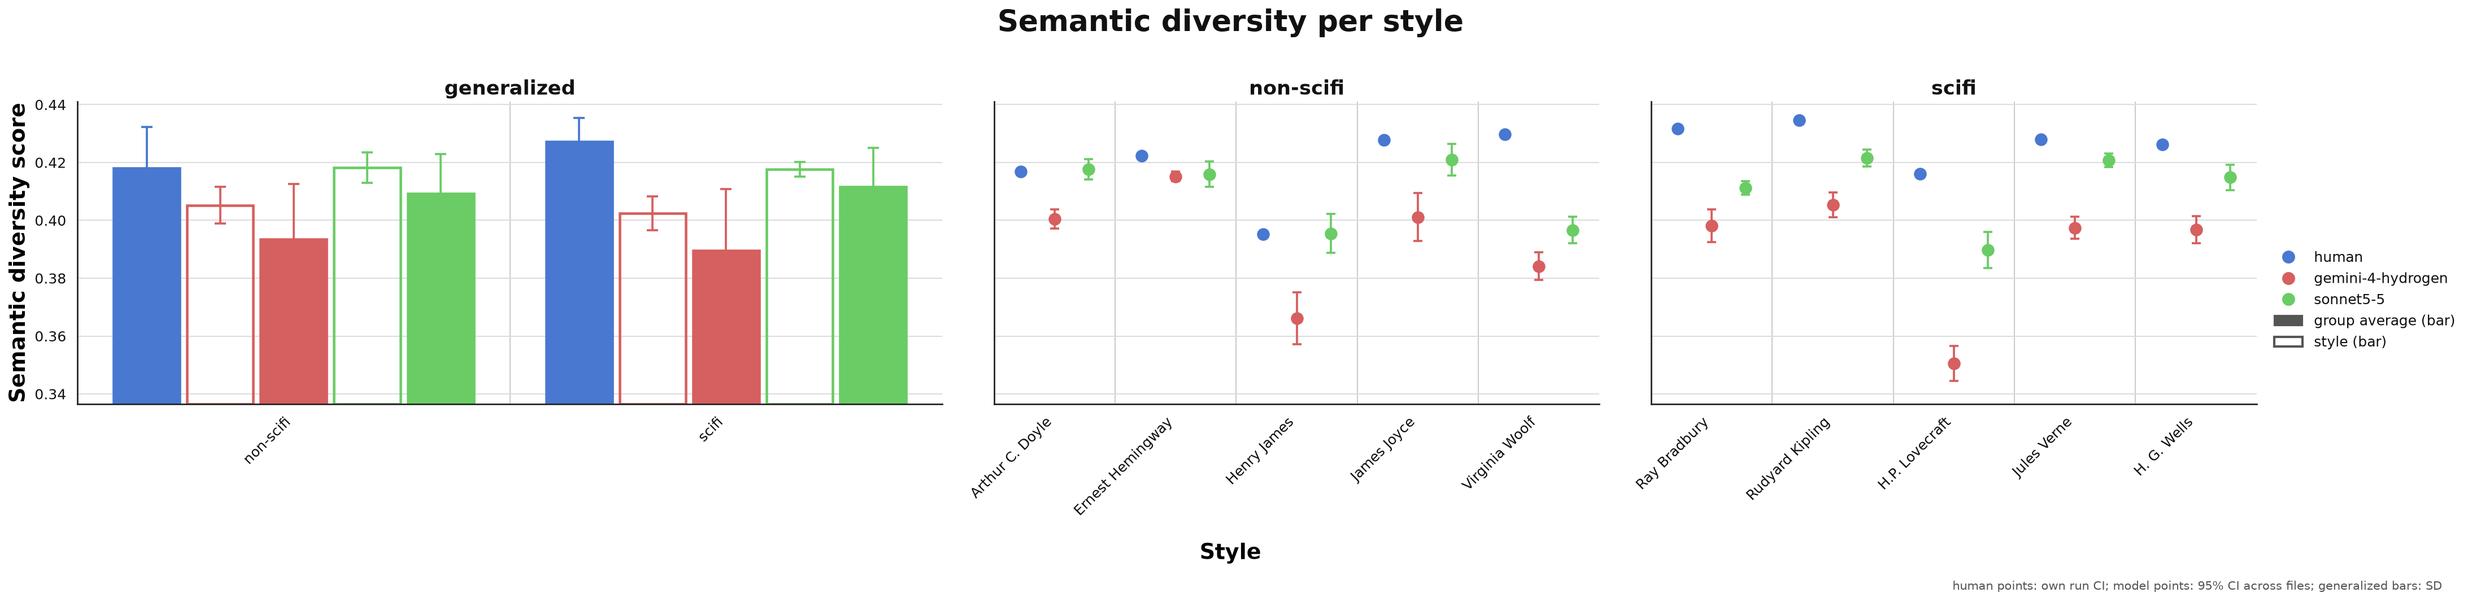
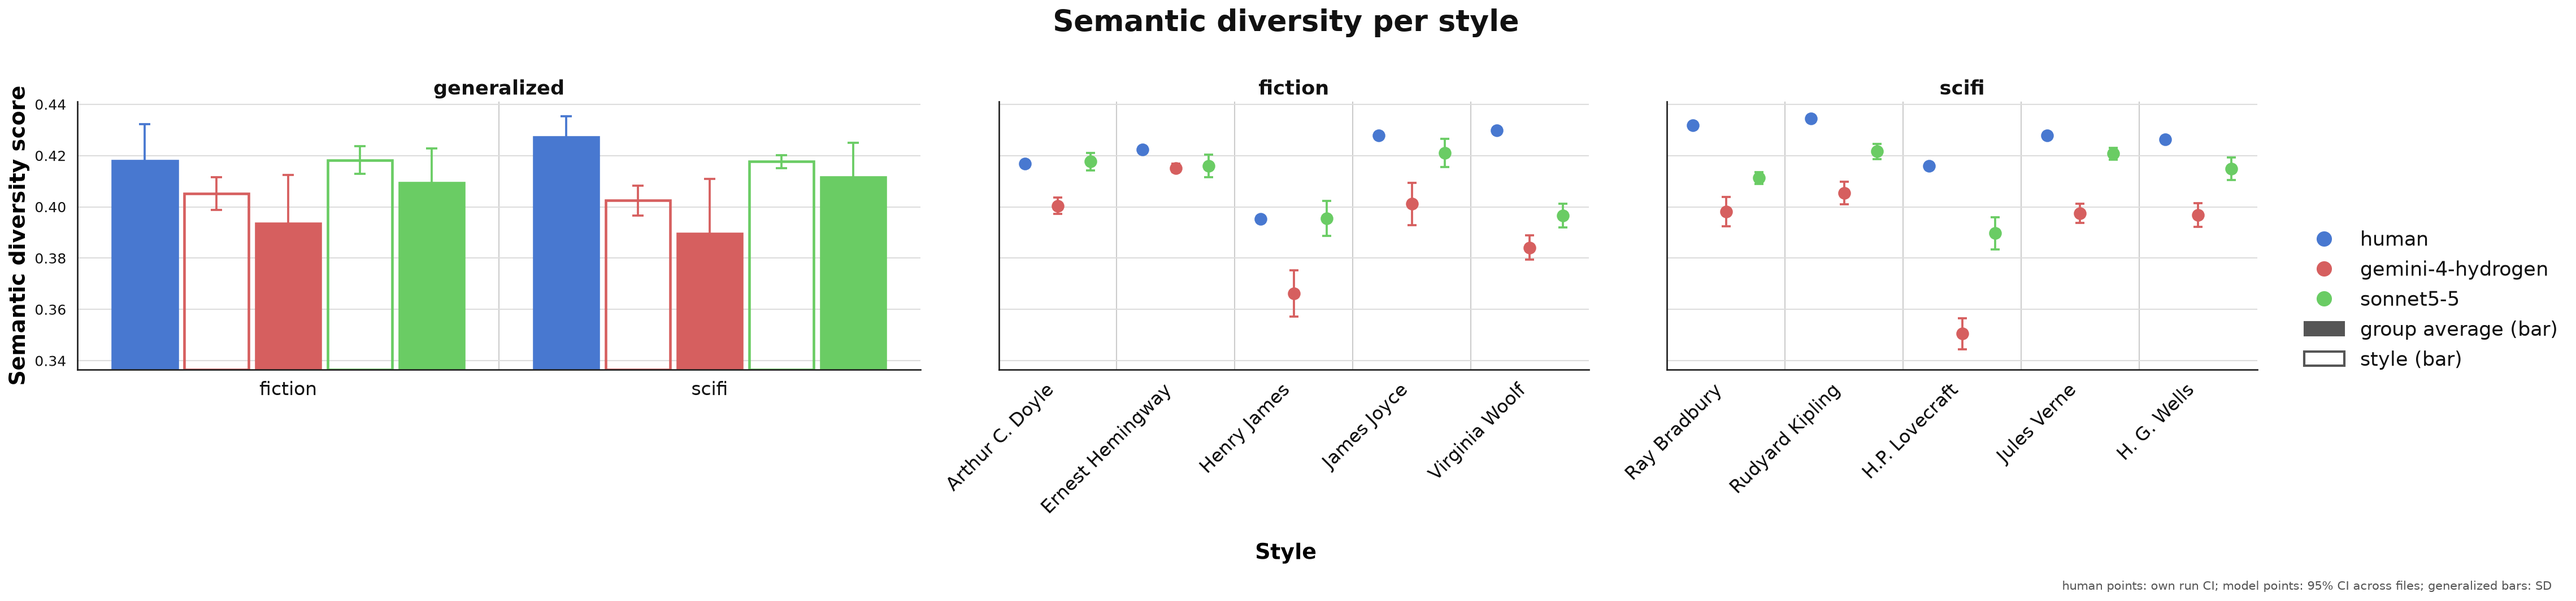
prettified plots

diff --git a/metrics/plot.py b/metrics/plot.py
@@ -79,7 +79,7 @@ def set_theme():
             "axes.labelsize":     18,
             "axes.labelweight":   "bold",
             "axes.labelcolor":    "#000000",
-            "xtick.labelsize":    12,
+            "xtick.labelsize":    16,
             "ytick.labelsize":    12,
             "xtick.color":        "#111111",
             "ytick.color":        "#111111",
@@ -87,7 +87,7 @@ def set_theme():
             "ytick.major.size":   6,
             "xtick.major.width":  1.3,
             "ytick.major.width":  1.3,
-            "legend.fontsize":    12,
+            "legend.fontsize":    17,
             "text.color":         "#111111",
             "figure.titlesize":   25,
             "figure.titleweight": "bold",
@@ -418,8 +418,7 @@ SERIES_COLORS = {
 GENRE_GROUPS = {"scifi": "scifi", "non-scifi": "fiction"}
 
 # Panel display names (data keys are untouched) and left-to-right panel order.
-PANEL_TITLES = {"fiction": "non-scifi"}
-PANEL_ORDER  = ["generalized", "non-scifi", "scifi"]
+PANEL_ORDER  = ["generalized", "fiction", "scifi"]
 
 # NOTE quick and dirty approach, STYLES is copied from ../preprocess/openrouter.py
 # Full names for the author clusters in the "scifi" / "non-scifi" panels (keys are the lower-case
@@ -488,7 +487,7 @@ def summarise_group_averages(df: pd.DataFrame, genre_groups: dict = None,
         if hum.empty:
             print(f"NOTE: no human '{genre}' directory, so no group average beside '{ai_key}'")
             continue
-        label    = f"avg {PANEL_TITLES.get(genre, genre)}"
+        label    = f"avg {genre}"
         hum_keys = set(hum["_file"])
         for g, raw in hum.groupby("_g", dropna=False):                       # human average
             rows.append(dict(group=None if pd.isna(g) else g, style=genre, label=label,
@@ -864,7 +863,6 @@ def plot_by_section(
         if panels[:-1]:
             print("NOTE: no human file for AI style(s): " + ", ".join(sorted(first["label"])))
 
-    panels = [(PANEL_TITLES.get(t, t), c, h) for t, c, h in panels]
     panels.sort(key=lambda p: PANEL_ORDER.index(p[0]) if p[0] in PANEL_ORDER else len(PANEL_ORDER))   # stable
 
     grp = pts[pts["kind"] == "group"]                          # group averages (from summarise_group_averages)
@@ -881,7 +879,7 @@ def plot_by_section(
     colour_of  = {s: fixed[s] if s in fixed else free.pop(0) for s in all_series}
 
     max_slots = max(1 + len(ai_series), len(extra_h) + 2 * len(ai_series))
-    leg_w     = 2.3
+    leg_w     = 3.6
     width     = sum(max(len(p[1]), 1) * (0.42 * max_slots + 0.5) for p in panels) + 0.8 * len(panels) + leg_w
     # panel widths follow cluster counts, except "generalized" gets double its share (others shrink to fit)
     ratios = [float(max(len(p[1]), 1)) for p in panels]
@@ -909,6 +907,9 @@ def plot_by_section(
         bar_bottom = ylo if bar_baseline is None else bar_baseline
         axes[0].set_ylim(ylo, hi + pad)
     kind_order = {"file": 0, "section": 1, "group": 2}
+    
+    # "generalized" clusters are labelled by the group their averages come from ("non-scifi" -> "fiction")
+    group_of = {k.lower(): v for k, v in (GENRE_GROUPS if genre_groups is None else genre_groups).items()}
     for ax, (ptitle, clusters, human_series) in zip(axes, panels):
         slots = ([human_series] if human_series else extra_h) + ai_series
         w = min(0.28, 0.85 / max(len(slots) + (len(ai_series) if human_series is None else 0), 1))
@@ -940,11 +941,12 @@ def plot_by_section(
                             markersize=9, capsize=4, linewidth=1.8, markeredgewidth=1.8, zorder=2)
 
             xtick_pos.append(ci)                 # one label per cluster (author / style), centred under it
-            xtick_labels.append(STYLES.get(str(label).strip().lower(), label) if human_series is not None else label)
-
+            xtick_labels.append(STYLES.get(str(label).strip().lower(), label) if human_series is not None
+                                else group_of.get(str(label).strip().lower(), label))
         ax.set_xticks(xtick_pos)
-        ax.set_xticklabels(xtick_labels, rotation=label_rotation,
-                           ha="center" if label_rotation == 0 else "right")
+        
+        rot = 0 if human_series is None else label_rotation          # "generalized" labels are short: keep them flat
+        ax.set_xticklabels(xtick_labels, rotation=rot, ha="center" if rot == 0 else "right")
         ax.set_xlim(-0.5, max(len(clusters), 1) - 0.5)
         ax.xaxis.grid(False)
         for ci in range(len(clusters) - 1):
@@ -954,7 +956,7 @@ def plot_by_section(
         ax.set_ylabel(ylabel if ax is axes[0] else "")
 
     import matplotlib.lines as mlines
-    handles = [mlines.Line2D([], [], color=colour_of[s], marker="o", linestyle="none", markersize=10, label=s)
+    handles = [mlines.Line2D([], [], color=colour_of[s], marker="o", linestyle="none", markersize=12, label=s)
                for s in all_series]
     if has_bars:
         import matplotlib.patches as mpatches
